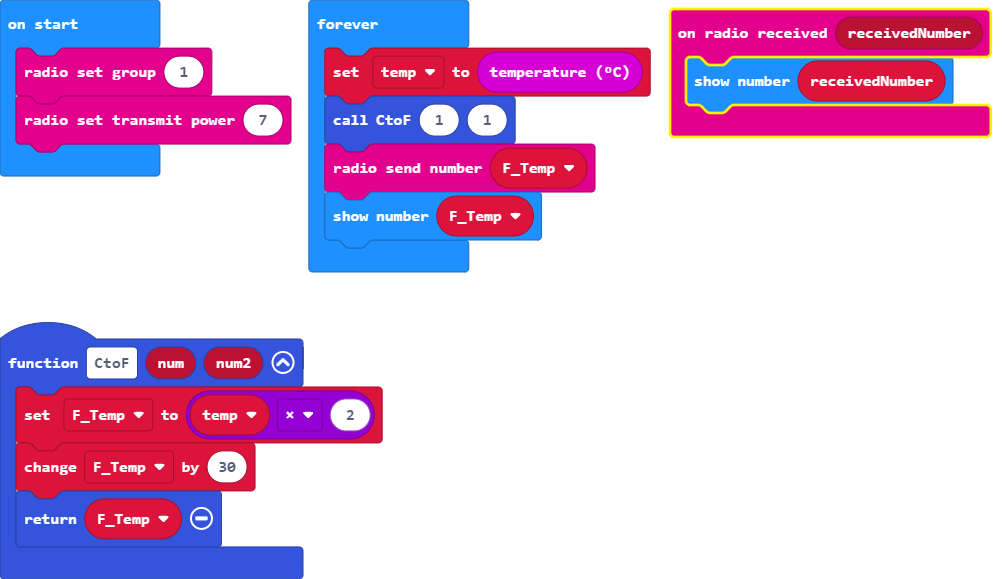
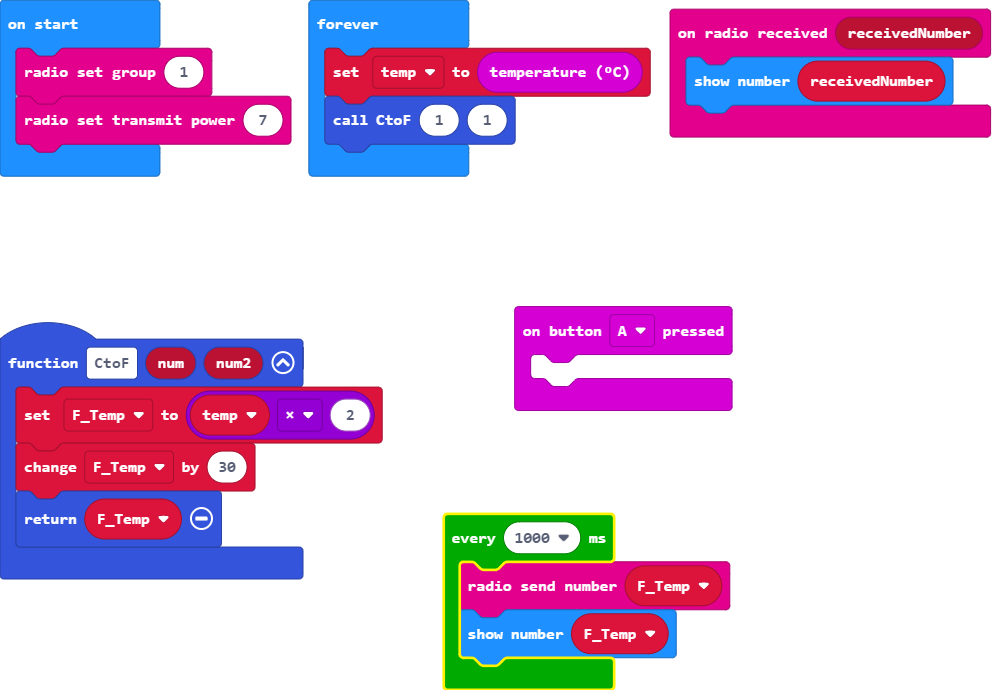
Update main.blocks, main.ts

diff --git a/main.ts b/main.ts
@@ -6,13 +6,18 @@ function CtoF (num: number, num2: number) {
 radio.onReceivedNumber(function (receivedNumber) {
     basic.showNumber(receivedNumber)
 })
+input.onButtonPressed(Button.A, function () {
+	
+})
 let temp = 0
 let F_Temp = 0
 radio.setGroup(1)
 radio.setTransmitPower(7)
+loops.everyInterval(1000, function () {
+    radio.sendNumber(F_Temp)
+    basic.showNumber(F_Temp)
+})
 basic.forever(function () {
     temp = input.temperature()
     CtoF(1, 1)
-    radio.sendNumber(F_Temp)
-    basic.showNumber(F_Temp)
 })
